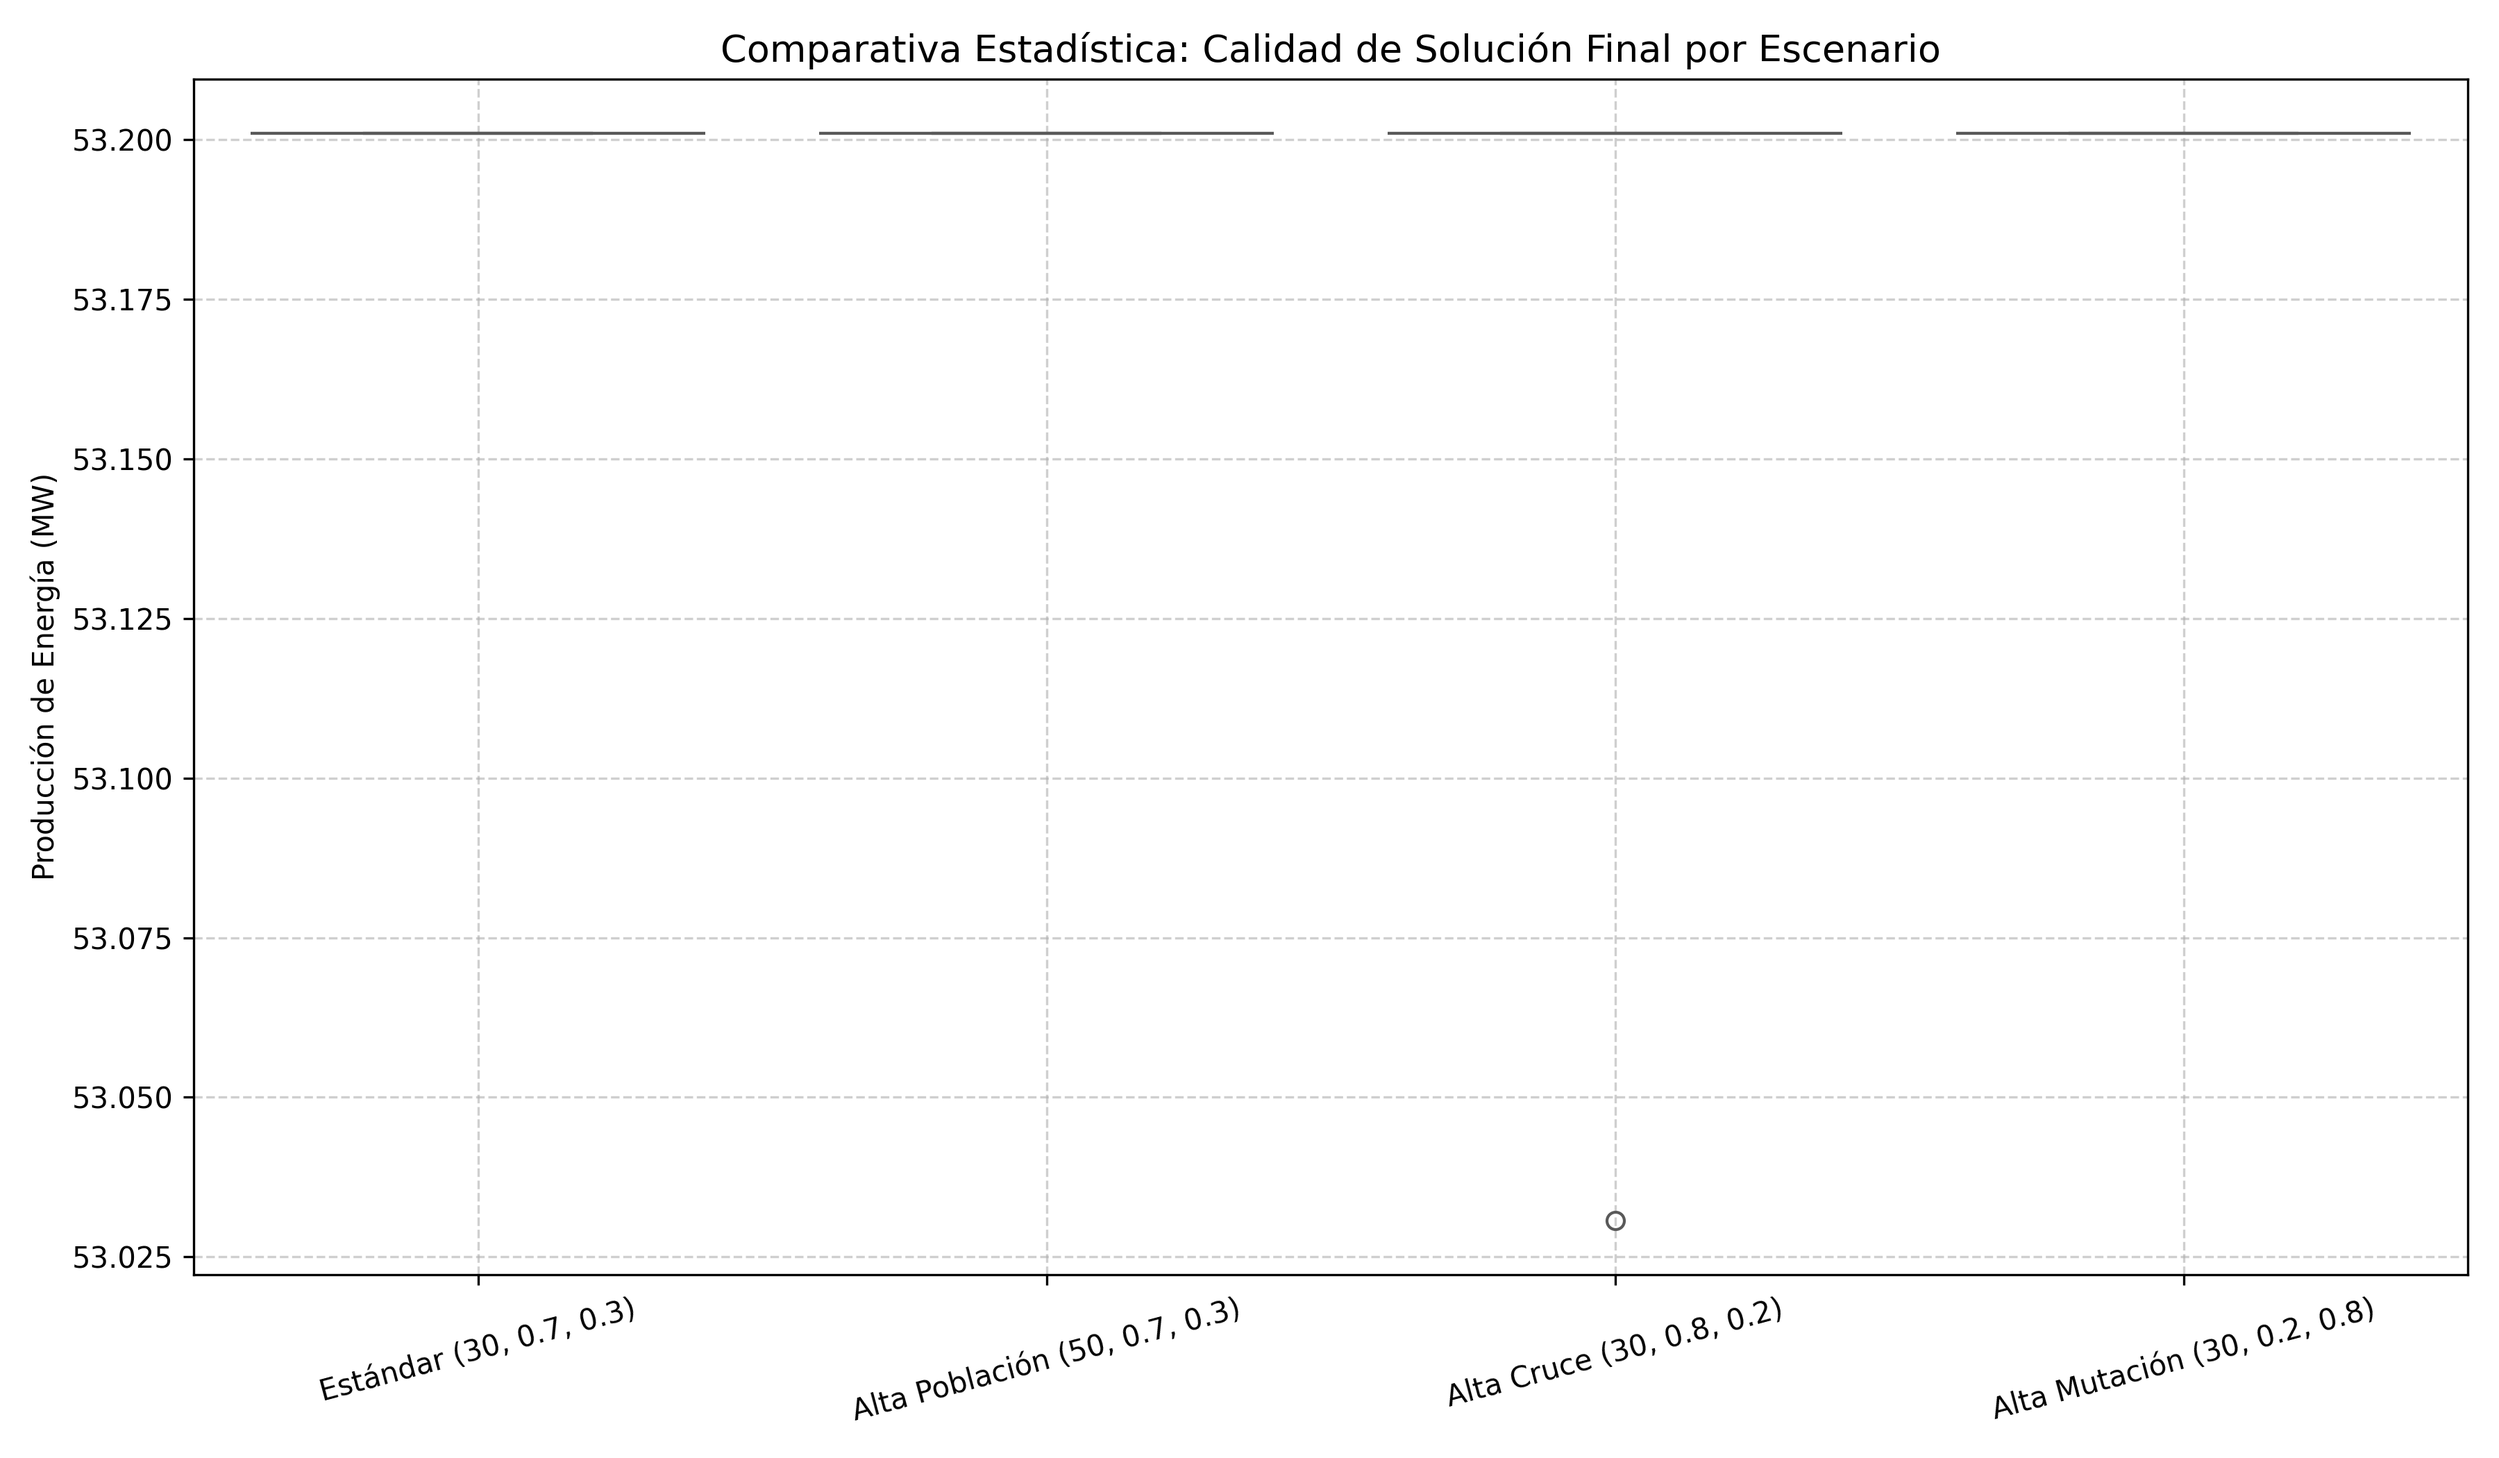
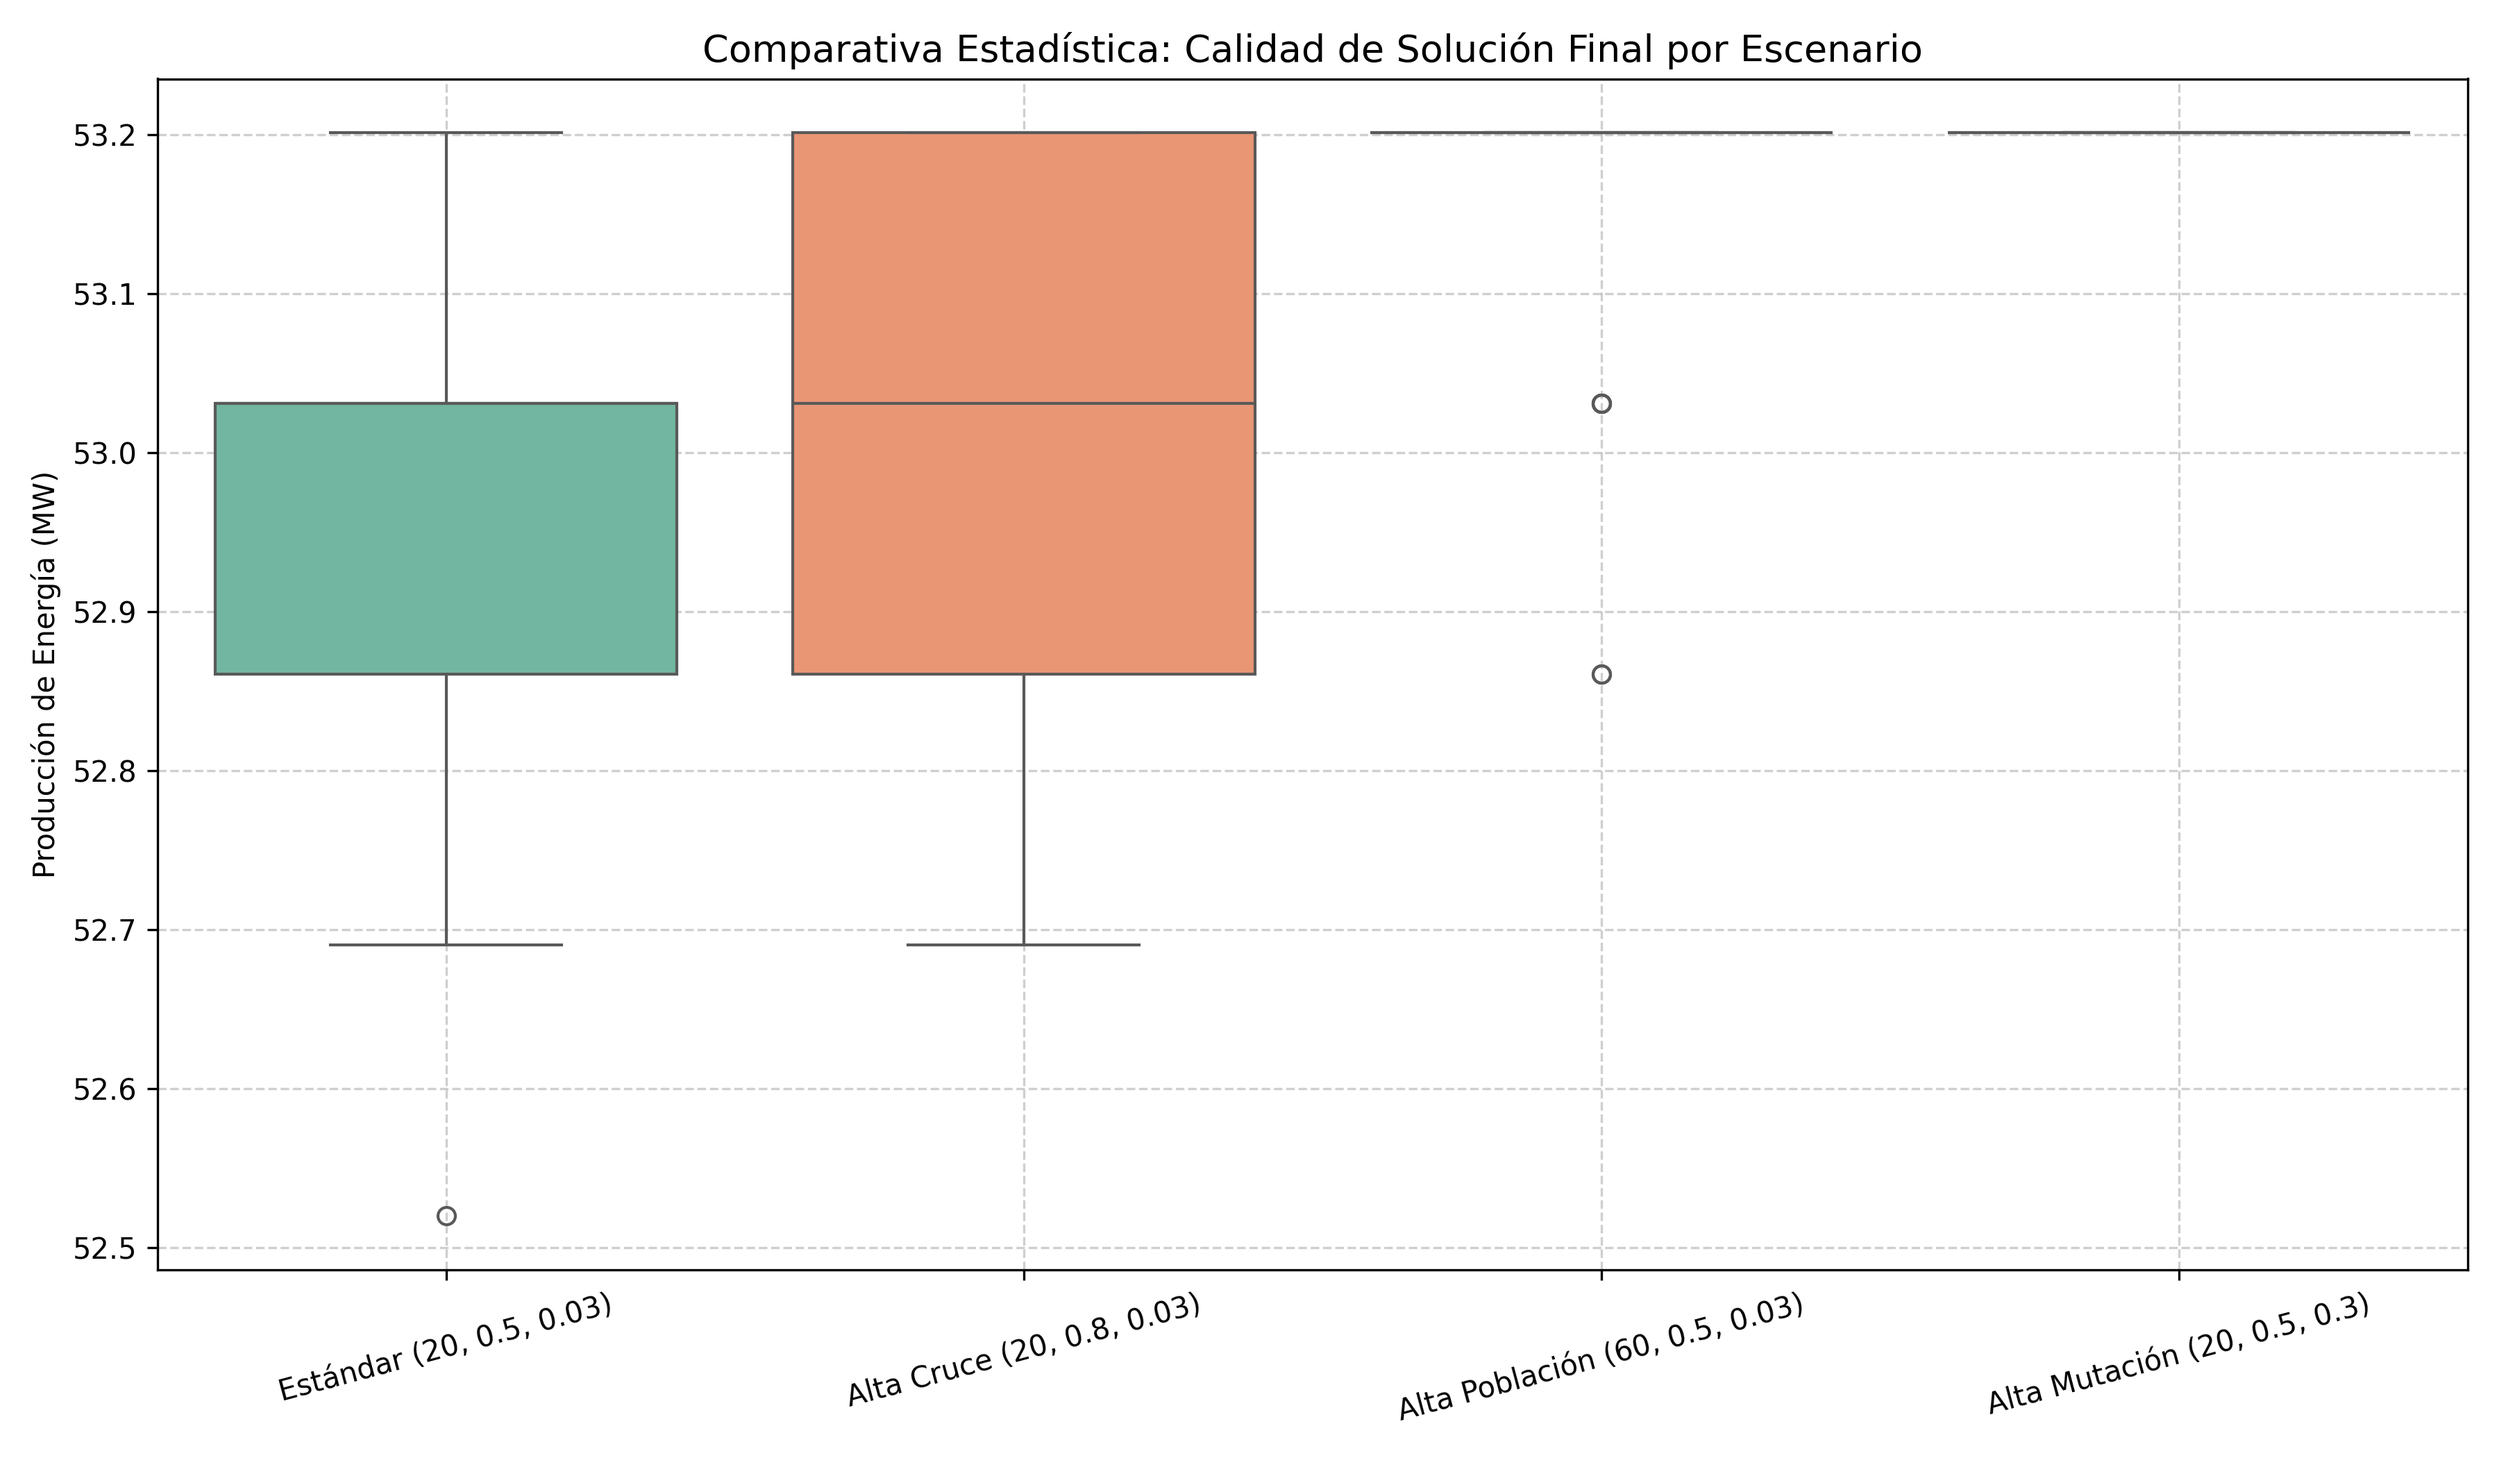
estándar modficado y grilla agregada a main2

diff --git a/ProyectoAerogeneradores/main_2.py b/ProyectoAerogeneradores/main_2.py
@@ -244,22 +244,25 @@ def correr_analisis_comparativo():
     Orquestador que corre múltiples ejecuciones para distintos escenarios
     y genera gráficos comparativos y una tabla resumen.
     """
-    estandar = [30,0.7,0.01]
-    alta_poblacion = 50
+    estandar = [20,0.5,0.03]
+    alta_poblacion = 60
     alta_cruce = 0.8
-    alta_mutacion = 0.03
+    alta_mutacion = 0.3
     escenarios = [
         {"nombre": f"Estándar ({estandar[0]}, {estandar[1]}, {estandar[2]})", "pop": estandar[0], "cx": estandar[1], "mut": estandar[2]},
-        {"nombre": f"Alta Población ({alta_poblacion}, {estandar[1]}, {estandar[2]})", "pop": alta_poblacion, "cx": estandar[1], "mut": estandar[2]},
         {"nombre": f"Alta Cruce ({estandar[0]}, {alta_cruce}, {estandar[2]})", "pop": estandar[0], "cx": alta_cruce, "mut": estandar[2]},
+        {"nombre": f"Alta Población ({alta_poblacion}, {estandar[1]}, {estandar[2]})", "pop": alta_poblacion, "cx": estandar[1], "mut": estandar[2]},
         {"nombre": f"Alta Mutación ({estandar[0]}, {estandar[1]}, {alta_mutacion})", "pop": estandar[0], "cx": estandar[1], "mut": alta_mutacion},
     ] 
 
     N_RUNS = 30  # Ejecuciones por cada escenario para validez estadística
-    N_GEN = 30  # Generaciones por cada ejecución
+    N_GEN = 40  # Generaciones por cada ejecución
     resumen_estadistico = []
     todos_los_resultados = {}
     todas_las_convergencias = {}
+    
+    mejor_campeon_alta_mutacion = None
+    mejor_fitness_alta_mutacion = -np.inf
 
     # Óptimo de referencia para el Hit Rate (Teórico sin estelas)
     OPTIMO_REF = (N_MOLINOS * P_BASE) / 1000000
@@ -275,8 +278,15 @@ def correr_analisis_comparativo():
 
         for r in range(1, N_RUNS + 1):
             log, campeon = ejecutar_una_vez(esc["pop"], esc["cx"], esc["mut"], N_GEN)
-            finales_escenario.append(campeon.fitness.values[0])
+            fitness_actual = campeon.fitness.values[0]
+            finales_escenario.append(fitness_actual)
             convergencias_escenario.append(log.select("Maximo"))
+            
+            if "Alta Mutación" in esc["nombre"]:
+                if fitness_actual > mejor_fitness_alta_mutacion:
+                    mejor_fitness_alta_mutacion = fitness_actual
+                    mejor_campeon_alta_mutacion = campeon
+                    
             if r % 10 == 0:
                 print(f"  Progreso: {r}/{N_RUNS} ejecuciones completadas.")
 
@@ -314,6 +324,9 @@ def correr_analisis_comparativo():
     # Imprimir Tabla y generar gráficos
     imprimir_tabla_resumen(resumen_estadistico)
     graficar_resultados_comparativos(todos_los_resultados, todas_las_convergencias)
+
+    if mejor_campeon_alta_mutacion is not None:
+        graficar_mapa_campeon(mejor_campeon_alta_mutacion)
 
 
 def imprimir_tabla_resumen(datos):
@@ -490,7 +503,6 @@ def graficar_boxplot_finales(mejores_finales):
         boxprops=dict(facecolor="lightgreen", color="green"),
         medianprops=dict(color="darkgreen", linewidth=2),
     )
-    ax.axhline(y=53.25, color="red", linestyle=":", label="Máximo Teórico")
     ax.set_title(
         "Distribución de Mejores Soluciones Finales\n(30 ejecuciones independientes)"
     )

diff --git a/ProyectoAerogeneradores/main.py b/ProyectoAerogeneradores/main.py
@@ -208,10 +208,10 @@ toolbox.register("select", tools.selTournament, tournsize=3)
 # ==========================================
 def ejecutar_una_vez(verbose=False):
     # Parámetros del experimento
-    TAMANO_POBLACION = 30
-    GENERACIONES = 30
-    PROB_CRUCE = 0.7
-    PROB_MUTACION = 0.3
+    TAMANO_POBLACION = 20
+    GENERACIONES = 40
+    PROB_CRUCE = 0.5
+    PROB_MUTACION = 0.02
 
     poblacion = toolbox.poblacion(n=TAMANO_POBLACION)
     salon_fama = tools.HallOfFame(1)  # Guardará el mejor de todos los tiempos
